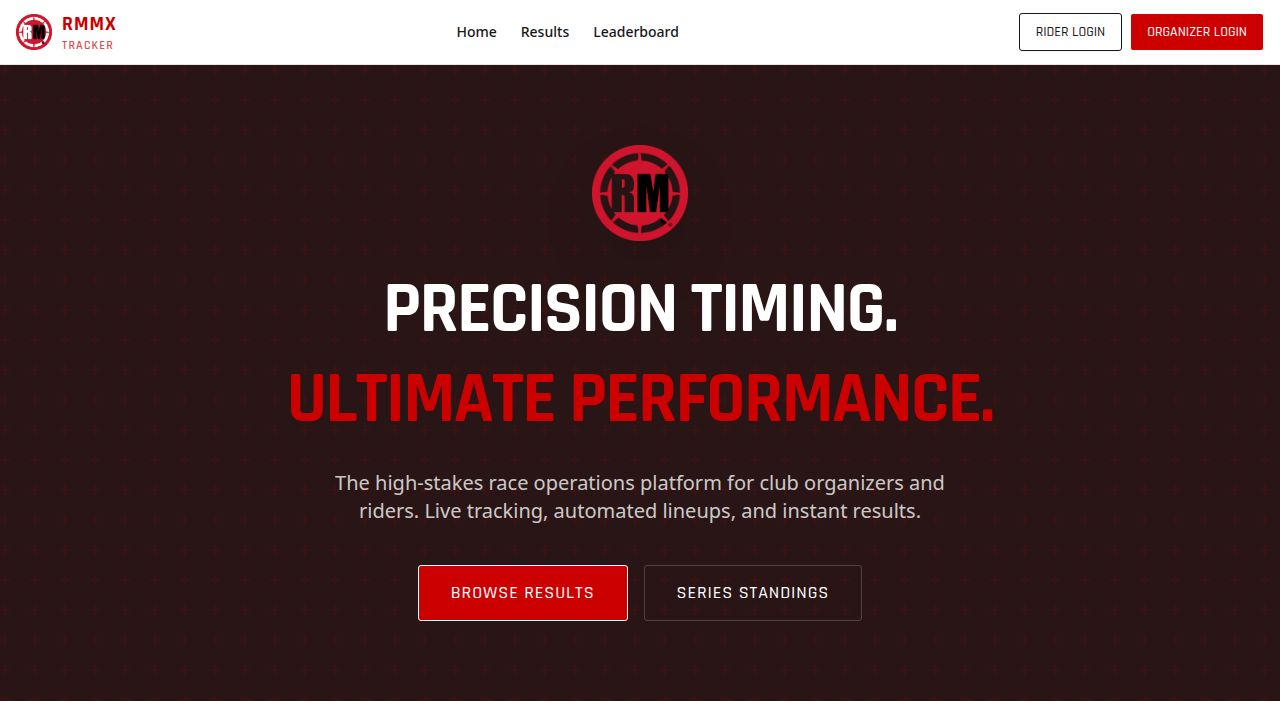
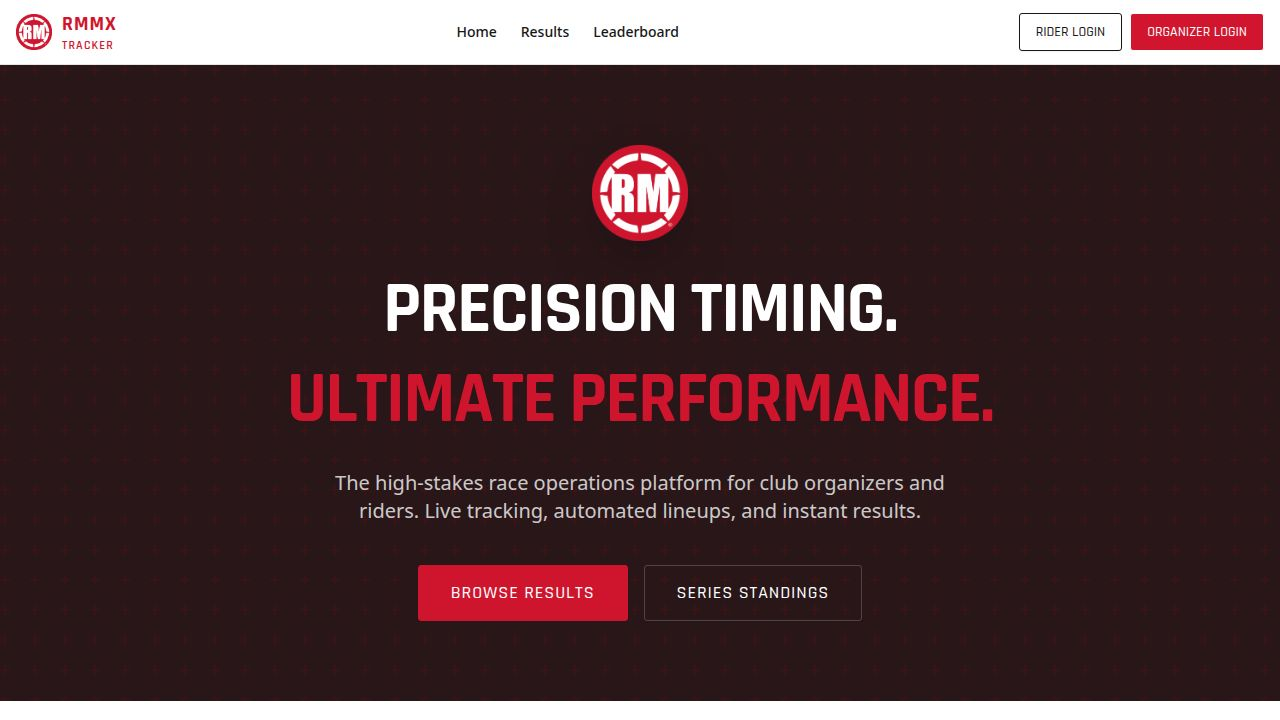
Add AMA number requirement to event registrations
Integrates AMA number collection into the event creation, editing, and registration processes. Updates API endpoints, database schema, OpenAPI specification, and frontend forms to handle the `requireAma` field and collect the `amaNumber` during registration.

Replit-Commit-Author: Agent
Replit-Commit-Session-Id: 12b2ed81-00f2-424f-8001-9a7553a567eb
Replit-Commit-Checkpoint-Type: full_checkpoint
Replit-Commit-Event-Id: 0ac2c60a-ced7-4f6a-89b1-82c8f6327feb
Replit-Commit-Screenshot-Url: https://storage.googleapis.com/screenshot-production-us-central1/36978f52-e0d6-4916-9c67-44414a5d3c20/12b2ed81-00f2-424f-8001-9a7553a567eb/KpTZBtC
Replit-Helium-Checkpoint-Created: true

diff --git a/artifacts/race-platform/src/pages/organizer/EventDetail.tsx b/artifacts/race-platform/src/pages/organizer/EventDetail.tsx
@@ -92,6 +92,7 @@ const updateEventSchema = z.object({
     maxRiders: z.coerce.number().int().min(1).optional().or(z.literal("")),
   })),
   paymentEnabled: z.boolean().default(false),
+  requireAma: z.boolean().default(false),
   entryFee: z.string().optional(),
   registrationOpen: z.string().optional(),
   registrationClose: z.string().optional(),
@@ -200,6 +201,7 @@ export default function EventDetail() {
       status: "draft",
       raceClasses: [],
       paymentEnabled: false,
+      requireAma: false,
       entryFee: "",
       registrationOpen: "",
       registrationClose: "",
@@ -230,6 +232,7 @@ export default function EventDetail() {
         maxRiders: limits[cls] ?? "",
       })),
       paymentEnabled: evt.entryFee != null,
+      requireAma: evt.requireAma ?? false,
       entryFee: evt.entryFee != null ? String(evt.entryFee) : "",
       registrationOpen: evt.registrationOpen ? toLocalDatetimeString(new Date(evt.registrationOpen)) : "",
       registrationClose: evt.registrationClose ? toLocalDatetimeString(new Date(evt.registrationClose)) : "",
@@ -259,6 +262,7 @@ export default function EventDetail() {
         raceClasses: classNames,
         raceClassLimits: classLimits,
         paymentEnabled: data.paymentEnabled,
+        requireAma: data.requireAma,
         entryFee: data.paymentEnabled && data.entryFee ? Number(data.entryFee) : undefined,
         registrationOpen: data.registrationOpen ? new Date(data.registrationOpen).toISOString() : undefined,
         registrationClose: data.registrationClose ? new Date(data.registrationClose).toISOString() : undefined,
@@ -556,6 +560,25 @@ export default function EventDetail() {
                     </div>
 
                     <div className="space-y-3">
+                      {/* Require AMA# checkbox */}
+                      <div className="flex items-center gap-2">
+                        <FormField
+                          control={form.control}
+                          name="requireAma"
+                          render={({ field }) => (
+                            <FormItem className="flex items-center gap-2 space-y-0">
+                              <FormControl>
+                                <Checkbox
+                                  checked={field.value}
+                                  onCheckedChange={field.onChange}
+                                />
+                              </FormControl>
+                              <FormLabel className="cursor-pointer font-normal">Require AMA #</FormLabel>
+                            </FormItem>
+                          )}
+                        />
+                      </div>
+
                       {/* Collect Payments toggle */}
                       {!isSuperAdmin && (
                         <div className="flex items-center gap-2">

diff --git a/artifacts/race-platform/src/pages/organizer/EventsList.tsx b/artifacts/race-platform/src/pages/organizer/EventsList.tsx
@@ -90,6 +90,7 @@ const createEventSchema = z.object({
   registrationOpen: z.string().optional(),
   registrationClose: z.string().optional(),
   paymentEnabled: z.boolean().default(false),
+  requireAma: z.boolean().default(false),
   entryFee: z.string().optional(),
 });
 
@@ -147,6 +148,7 @@ export default function EventsList() {
       registrationOpen: "",
       registrationClose: "",
       paymentEnabled: false,
+      requireAma: false,
       entryFee: "",
     }
   });
@@ -170,6 +172,7 @@ export default function EventsList() {
           registrationOpen: data.registrationOpen ? new Date(data.registrationOpen).toISOString() : undefined,
           registrationClose: data.registrationClose ? new Date(data.registrationClose).toISOString() : undefined,
           paymentEnabled: data.paymentEnabled,
+          requireAma: data.requireAma,
           entryFee: data.paymentEnabled && data.entryFee ? Number(data.entryFee) : undefined,
         }
       });
@@ -379,6 +382,25 @@ export default function EventsList() {
                       )}
                     </div>
                   )}
+
+                  {/* Require AMA# checkbox */}
+                  <div className="flex items-center gap-2 pt-1">
+                    <FormField
+                      control={form.control}
+                      name="requireAma"
+                      render={({ field }) => (
+                        <FormItem className="flex items-center gap-2 space-y-0">
+                          <FormControl>
+                            <Checkbox
+                              checked={field.value}
+                              onCheckedChange={field.onChange}
+                            />
+                          </FormControl>
+                          <FormLabel className="cursor-pointer font-normal">Require AMA #</FormLabel>
+                        </FormItem>
+                      )}
+                    />
+                  </div>
 
                   {/* Entry fee input (only when payment enabled) */}
                   {stripeReady && watchPaymentEnabled && (

diff --git a/artifacts/race-platform/src/pages/public/Register.tsx b/artifacts/race-platform/src/pages/public/Register.tsx
@@ -22,6 +22,7 @@ const registerSchema = z.object({
   emergencyPhone: z.string().optional(),
   raceClass: z.string().min(1, "Race class is required"),
   bibNumber: z.string().optional(),
+  amaNumber: z.string().optional(),
   statsEmailOptIn: z.boolean().default(false),
 });
 
@@ -38,6 +39,7 @@ interface EventInfo {
   status: string;
   entryFee: number | null;
   paymentEnabled: boolean;
+  requireAma: boolean;
   clubName: string | null;
   clubLogoUrl: string | null;
   registrationOpen: string | null;
@@ -81,7 +83,7 @@ export default function Register() {
     defaultValues: {
       firstName: "", lastName: "", email: "", phone: "",
       dateOfBirth: "", emergencyContact: "", emergencyPhone: "",
-      raceClass: "", bibNumber: "", statsEmailOptIn: false,
+      raceClass: "", bibNumber: "", amaNumber: "", statsEmailOptIn: false,
     },
   });
 
@@ -554,6 +556,16 @@ export default function Register() {
                         <FormMessage />
                       </FormItem>
                     )} />
+                    {event.requireAma && (
+                      <FormField control={form.control} name="amaNumber" render={({ field }) => (
+                        <FormItem>
+                          <FormLabel>AMA # <span className="text-destructive">*</span></FormLabel>
+                          <FormControl><Input placeholder="123456" {...field} /></FormControl>
+                          <p className="text-xs text-muted-foreground">Your AMA membership number is required for this event.</p>
+                          <FormMessage />
+                        </FormItem>
+                      )} />
+                    )}
                   </CardContent>
                 </Card>
 

diff --git a/artifacts/api-server/src/routes/registrations.ts b/artifacts/api-server/src/routes/registrations.ts
@@ -201,6 +201,7 @@ router.get("/public/events/:eventId/register-info", async (req, res) => {
     status: eventsTable.status,
     entryFee: eventsTable.entryFee,
     paymentEnabled: eventsTable.paymentEnabled,
+    requireAma: eventsTable.requireAma,
     maxRiders: eventsTable.maxRiders,
     registrationOpen: eventsTable.registrationOpen,
     registrationClose: eventsTable.registrationClose,
@@ -222,7 +223,7 @@ router.get("/public/events/:eventId/register-info", async (req, res) => {
 // ── Public: self-service rider registration ───────────────────────────────────
 router.post("/public/events/:eventId/register", async (req, res) => {
   const eventId = Number(req.params.eventId);
-  const { firstName, lastName, email, phone, dateOfBirth, emergencyContact, emergencyPhone, raceClass, bibNumber, statsEmailOptIn } = req.body;
+  const { firstName, lastName, email, phone, dateOfBirth, emergencyContact, emergencyPhone, raceClass, bibNumber, amaNumber, statsEmailOptIn } = req.body;
 
   if (!firstName || !lastName || !email || !raceClass) {
     return res.status(400).json({ error: "firstName, lastName, email, and raceClass are required" });
@@ -231,6 +232,9 @@ router.post("/public/events/:eventId/register", async (req, res) => {
   // Confirm event exists and is open for registration
   const events = await db.select().from(eventsTable).where(eq(eventsTable.id, eventId));
   if (!events[0]) return res.status(404).json({ error: "Event not found" });
+  if (events[0].requireAma && !amaNumber) {
+    return res.status(400).json({ error: "AMA # is required for this event" });
+  }
   if (events[0].status !== "registration_open") {
     return res.status(409).json({ error: "Registration is not currently open for this event" });
   }
@@ -292,6 +296,7 @@ router.post("/public/events/:eventId/register", async (req, res) => {
     eventId, riderId: rider.id, raceClass,
     bibNumber: bibNumber || rider.bibNumber || null,
     status: regStatus, paymentStatus: "unpaid",
+    amaNumber: amaNumber || null,
     statsEmailOptIn: !!statsEmailOptIn,
   }).returning();
 

diff --git a/artifacts/api-server/src/routes/events.ts b/artifacts/api-server/src/routes/events.ts
@@ -103,7 +103,7 @@ router.get("/events", async (req, res) => {
 });
 
 router.post("/events", async (req, res) => {
-  const { clubId, name, date, state, location, trackName, raceClasses, raceClassLimits, registrationOpen, registrationClose, paymentEnabled, entryFee, maxRiders } = req.body;
+  const { clubId, name, date, state, location, trackName, raceClasses, raceClassLimits, registrationOpen, registrationClose, paymentEnabled, requireAma, entryFee, maxRiders } = req.body;
   if (!clubId || !name || !date || !state) return res.status(400).json({ error: "clubId, name, date, state required" });
 
   // Determine the correct initial status based on the registration window
@@ -123,6 +123,7 @@ router.post("/events", async (req, res) => {
     registrationOpen, registrationClose,
     status: initialStatus,
     paymentEnabled: paymentEnabled || false,
+    requireAma: requireAma || false,
     entryFee: entryFee ? String(entryFee) : null,
     maxRiders,
   }).returning();
@@ -178,7 +179,7 @@ router.patch("/events/:eventId", async (req, res) => {
   const previousStatus = before?.status;
 
   const updates: Record<string, unknown> = {};
-  const fields = ["name", "date", "state", "location", "trackName", "raceClasses", "raceClassLimits", "registrationOpen", "registrationClose", "status", "paymentEnabled", "maxRiders", "imageUrl"];
+  const fields = ["name", "date", "state", "location", "trackName", "raceClasses", "raceClassLimits", "registrationOpen", "registrationClose", "status", "paymentEnabled", "requireAma", "maxRiders", "imageUrl"];
   for (const f of fields) {
     if (req.body[f] !== undefined) updates[f] = req.body[f];
   }

diff --git a/lib/db/src/schema/events.ts b/lib/db/src/schema/events.ts
@@ -16,6 +16,7 @@ export const eventsTable = pgTable("events", {
   registrationClose: text("registration_close"),
   status: text("status").notNull().default("draft"),
   paymentEnabled: boolean("payment_enabled").notNull().default(false),
+  requireAma: boolean("require_ama").notNull().default(false),
   entryFee: numeric("entry_fee", { precision: 10, scale: 2 }),
   maxRiders: integer("max_riders"),
   raceClassLimits: jsonb("race_class_limits").$type<Record<string, number | null>>().default({}),

diff --git a/lib/db/src/schema/registrations.ts b/lib/db/src/schema/registrations.ts
@@ -14,6 +14,7 @@ export const registrationsTable = pgTable("registrations", {
   paymentMethod: text("payment_method"), // card | cash | null
   amountPaid: numeric("amount_paid", { precision: 10, scale: 2 }),
   bibNumber: text("bib_number"),
+  amaNumber: text("ama_number"),
   statsEmailOptIn: boolean("stats_email_opt_in").notNull().default(false),
   createdAt: timestamp("created_at").defaultNow().notNull(),
 });